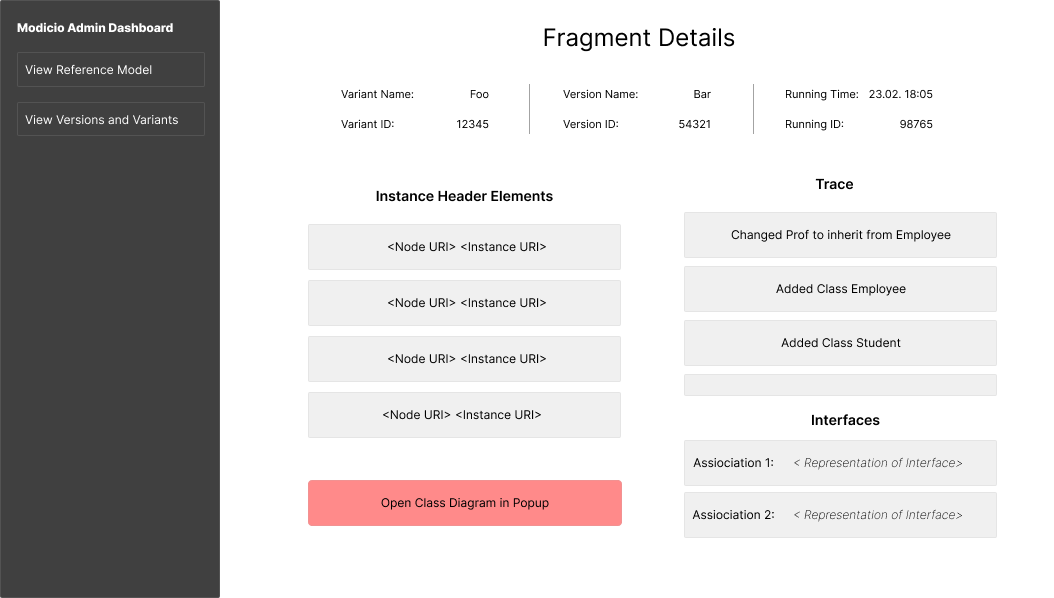
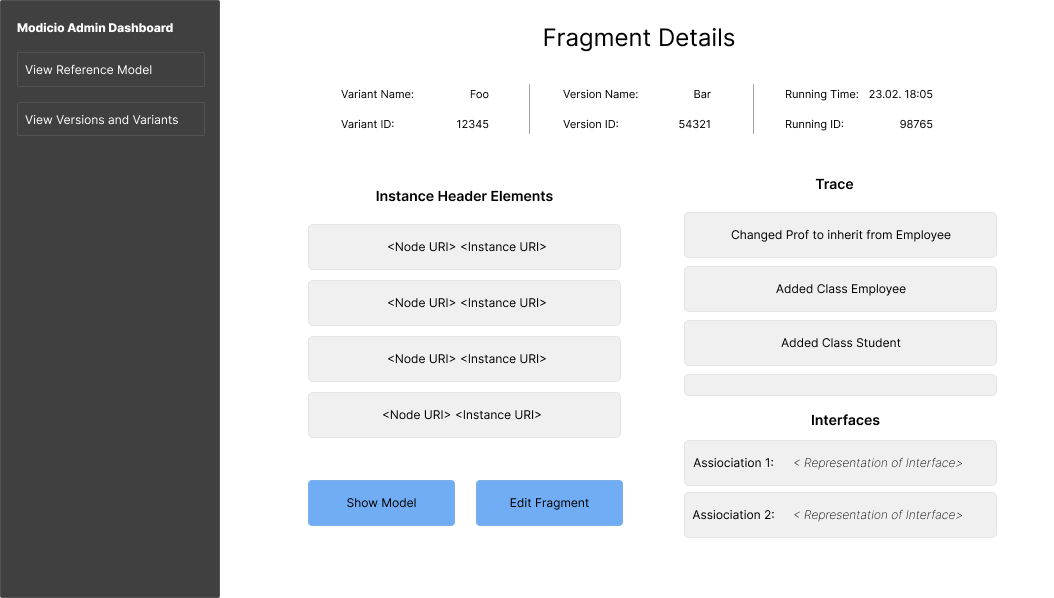
Expanded admin-panel.md

Changed region(s): [[0.2732, 0.7826, 0.6072, 0.903]]

diff --git a/doc/admin-panel.md b/doc/admin-panel.md
@@ -7,6 +7,9 @@
 | Visualize Reference Model                        | Visualize currently selected Reference Model using PlantUML                                                                          |
 | See Overview of all Active Variants and Versions | Visualization of variants and Versions                                                                                               |
 | Visualize Metadata for each Variant/Version      | For Each Fragment Visualize things like:  <br/> - Trace <br/> - Model <br/> - Interface for each Association Relation <br/> - etc... |
+| Change Reference Fragment                        | When seeing details of a Fragment provide the option to select it as the new reference Fragment                                      |
+| Clone Fragment                                   | When seeing details of a Fragment provide the option the clone the fragment and its variant/version                                  |
+| Change Model of Fragment                         | Provide a way of changing a models Framework through text input                                                                      |
 
 ## Mockup
 
@@ -26,9 +29,17 @@ When clicking on the "More Info" Text the next page opens, where the Metadata of
 
 ### Use Case 3
 
-This Page shows all the Information about a fragment that might be useful, starting with the Metadata, the trace, the interfaces for the nodes in the model and the HeaderElements for the instances.
+This Page shows all the Information about a fragment that might be useful, starting with the Metadata, the trace, the 
+interfaces for the nodes in the model and the HeaderElements for the instances.
 A click of the button shows the Model associated with the fragment.
 
 ![](img/FragmentDetails.png)
 
 ![](img/Popup.png)
+
+### Use Cases 4-6
+
+The Following Page is accessed via the "Edit Fragment" button on the details page for a Fragment. It provides ways to 
+set the fragment as the reference fragment, clone the fragment and make changes to the model via the text field
+
+![](img/EditFragment.png)
